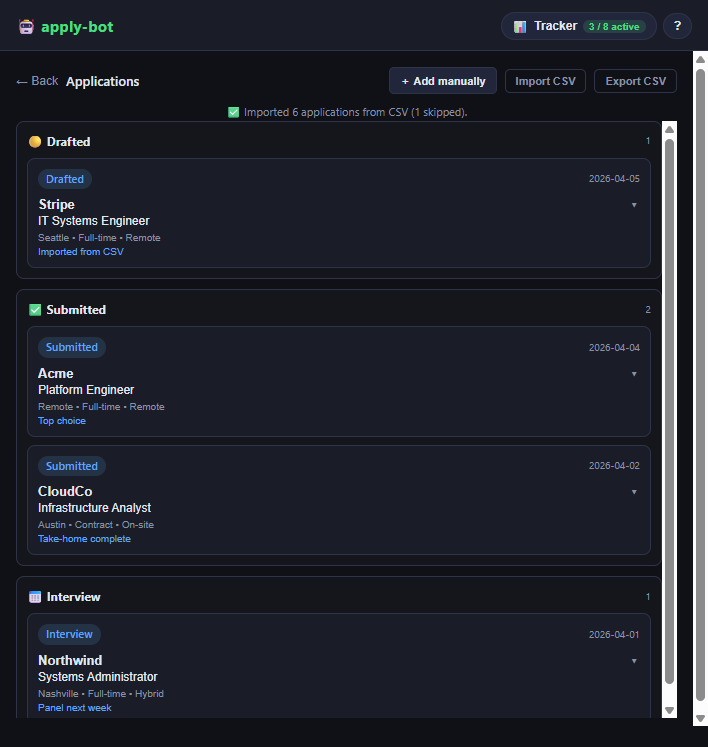
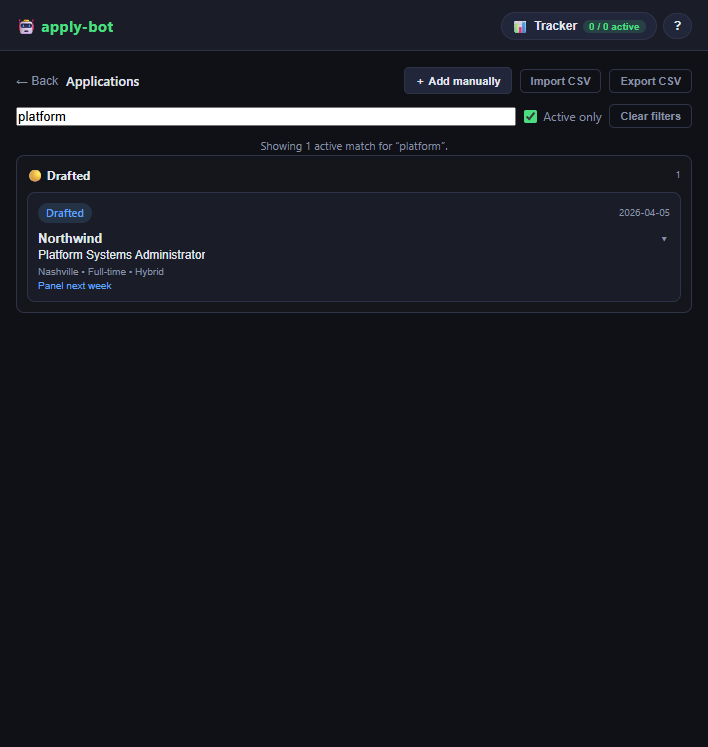
feat: add tracker search filters

diff --git a/popup/popup.js b/popup/popup.js
@@ -68,6 +68,10 @@ const $ = (id) => document.getElementById(id);
 const trackerSaveTimers = new Map();
 const expandedTrackerIds = new Set();
 const expandedMemoryQuestions = new Set();
+const trackerViewState = {
+  query: '',
+  activeOnly: false,
+};
 const popupQuery = new URLSearchParams(window.location.search);
 
 function showScreen(name) {
@@ -437,6 +441,24 @@ async function initTrackerHandlers() {
   $('save-new-application-btn')?.addEventListener('click', saveNewApplicationFromForm);
   $('import-csv-btn')?.addEventListener('click', () => $('import-csv-input')?.click());
   $('import-csv-input')?.addEventListener('change', importTrackerCsvFile);
+  $('tracker-search-input')?.addEventListener('input', async (event) => {
+    trackerViewState.query = event.target.value || '';
+    await renderTracker();
+    showScreen('tracker');
+  });
+  $('tracker-active-toggle')?.addEventListener('change', async (event) => {
+    trackerViewState.activeOnly = !!event.target.checked;
+    await renderTracker();
+    showScreen('tracker');
+  });
+  $('tracker-clear-filters-btn')?.addEventListener('click', async () => {
+    trackerViewState.query = '';
+    trackerViewState.activeOnly = false;
+    if ($('tracker-search-input')) $('tracker-search-input').value = '';
+    if ($('tracker-active-toggle')) $('tracker-active-toggle').checked = false;
+    await renderTracker();
+    showScreen('tracker');
+  });
 
   $('export-csv-btn').addEventListener('click', async () => {
     const resp = await sendMessage({ type: 'GET_STATE' });
@@ -601,11 +623,22 @@ function syncTrackerCardSummary(card, patch = {}) {
 async function renderTracker() {
   const resp = await sendMessage({ type: 'GET_STATE' });
   const apps = resp?.applications || [];
+  const filteredApps = filterTrackerApplications(apps, trackerViewState.query, { activeOnly: trackerViewState.activeOnly });
   const tbody = $('tracker-body');
   tbody.innerHTML = '';
   applyTrackerSummary(apps);
 
-  if (apps.length === 0) {
+  if ($('tracker-search-input') && $('tracker-search-input').value !== trackerViewState.query) {
+    $('tracker-search-input').value = trackerViewState.query;
+  }
+  if ($('tracker-active-toggle')) {
+    $('tracker-active-toggle').checked = trackerViewState.activeOnly;
+  }
+
+  if (filteredApps.length === 0) {
+    $('tracker-empty').textContent = hasActiveTrackerFilters()
+      ? 'No tracked applications match the current filters.'
+      : 'No applications tracked yet.';
     $('tracker-empty').classList.remove('hidden');
     return;
   }
@@ -621,7 +654,7 @@ async function renderTracker() {
   ];
 
   tbody.innerHTML = lanes.map(([status, label]) => {
-    const laneApps = apps
+    const laneApps = filteredApps
       .filter((app) => normalizeTrackingStatus(app.status) === status)
       .slice()
       .reverse();
@@ -843,6 +876,41 @@ function renderTrackerCard(app) {
       </div>
     </div>
   `;
+}
+
+function hasActiveTrackerFilters() {
+  return !!String(trackerViewState.query || '').trim() || trackerViewState.activeOnly;
+}
+
+function filterTrackerApplications(applications = [], query = '', { activeOnly = false } = {}) {
+  const tokens = String(query || '')
+    .toLowerCase()
+    .split(/\s+/)
+    .map((token) => token.trim())
+    .filter(Boolean);
+
+  return (applications || []).filter((app) => {
+    const status = normalizeTrackingStatus(app.status);
+    if (activeOnly && !['drafted', 'filled'].includes(status)) {
+      return false;
+    }
+
+    if (!tokens.length) return true;
+
+    const haystack = [
+      app.company,
+      app.title,
+      app.location,
+      app.employment_type,
+      app.salary_range,
+      app.scorecard,
+      app.verdict,
+      app.description,
+      app.jd_snippet,
+    ].join(' ').toLowerCase();
+
+    return tokens.every((token) => haystack.includes(token));
+  });
 }
 
 function exportCsv(applications) {

diff --git a/lib/tracker.js b/lib/tracker.js
@@ -127,6 +127,40 @@ export async function importApplicationsFromCsv(csvText = '') {
   };
 }
 
+export function filterApplicationsForQuery(applications = [], query = '', options = {}) {
+  const tokens = String(query || '')
+    .toLowerCase()
+    .split(/\s+/)
+    .map((token) => token.trim())
+    .filter(Boolean);
+  const activeOnly = !!options.activeOnly;
+
+  return (applications || []).filter((app) => {
+    const status = normalizeApplicationStatus(app?.status);
+    if (activeOnly && !['drafted', 'filled'].includes(status)) {
+      return false;
+    }
+
+    if (!tokens.length) {
+      return true;
+    }
+
+    const haystack = [
+      app?.company,
+      app?.title,
+      app?.location,
+      app?.employment_type,
+      app?.salary_range,
+      app?.scorecard,
+      app?.verdict,
+      app?.description,
+      app?.jd_snippet,
+    ].join(' ').toLowerCase();
+
+    return tokens.every((token) => haystack.includes(token));
+  });
+}
+
 export function parseApplicationsCsv(csvText = '') {
   const rows = parseCsvRows(csvText);
   if (!rows.length) {

diff --git a/popup/popup.html b/popup/popup.html
@@ -302,6 +302,14 @@
           <input id="import-csv-input" type="file" accept=".csv,text/csv" class="hidden" />
         </div>
       </div>
+      <div class="tracker-toolbar">
+        <input id="tracker-search-input" type="search" placeholder="Search company, role, notes…" aria-label="Search tracked applications" />
+        <label class="checkbox-row tracker-filter-toggle" style="margin-top:0">
+          <input id="tracker-active-toggle" type="checkbox" />
+          Active only
+        </label>
+        <button id="tracker-clear-filters-btn" class="btn btn-ghost btn-sm" type="button">Clear filters</button>
+      </div>
       <p id="tracker-status" class="status-msg"></p>
 
       <div id="tracker-add-card" class="help-card hidden">

diff --git a/popup/popup.css b/popup/popup.css
@@ -664,6 +664,23 @@ textarea {
   flex-wrap: wrap;
 }
 
+.tracker-toolbar {
+  display: flex;
+  align-items: center;
+  gap: 8px;
+  flex-wrap: wrap;
+  margin-bottom: 10px;
+}
+
+.tracker-toolbar input[type="search"] {
+  flex: 1 1 280px;
+  min-width: 220px;
+}
+
+.tracker-filter-toggle {
+  white-space: nowrap;
+}
+
 .tracker-add-grid {
   display: grid;
   grid-template-columns: repeat(auto-fit, minmax(220px, 1fr));

diff --git a/ROADMAP.md b/ROADMAP.md
@@ -11,7 +11,7 @@ updated: 2026-04-05 (tracker-workspace-planning)
 
 ## 2026 Q2 (In Progress)
 
-- [/] Turn the tracker into a real job-workspace view with stored JD metadata, location, employment type, salary range, verdict, scorecard fields, and a wider lower-scroll popup layout.
+- [/] Turn the tracker into a real job-workspace view with stored JD metadata, location, employment type, salary range, verdict, scorecard fields, search/filter controls, and a wider lower-scroll popup layout.
 - [x] Move tracker/help actions into the popup header and reduce main-screen scrolling friction.
 - [x] Make Memory editable from Profile so users can correct bad captures quickly.
 - [x] Add a help/legal surface for EULA, terms, privacy, GDPR, selective cache clear, and full reset/delete-my-info actions.

diff --git a/TASKS.md b/TASKS.md
@@ -58,6 +58,7 @@ updated: 2026-04-05 (tracker-and-privacy-planning)
 - [x] Move Memory controls into `Profile`, add header shortcuts, and make tracker edits/card expansion feel like a real workspace.
 - [x] Widen the popup workspace and reduce scroll pressure across tracker, preview, and profile views.
 - [x] Add quick manual tracker entry plus current-page / pasted-JD import for job details.
+- [x] Add tracker search and active-only filters so larger pipelines stay easy to triage.
 
 <!--
 AGENT INSTRUCTIONS:
